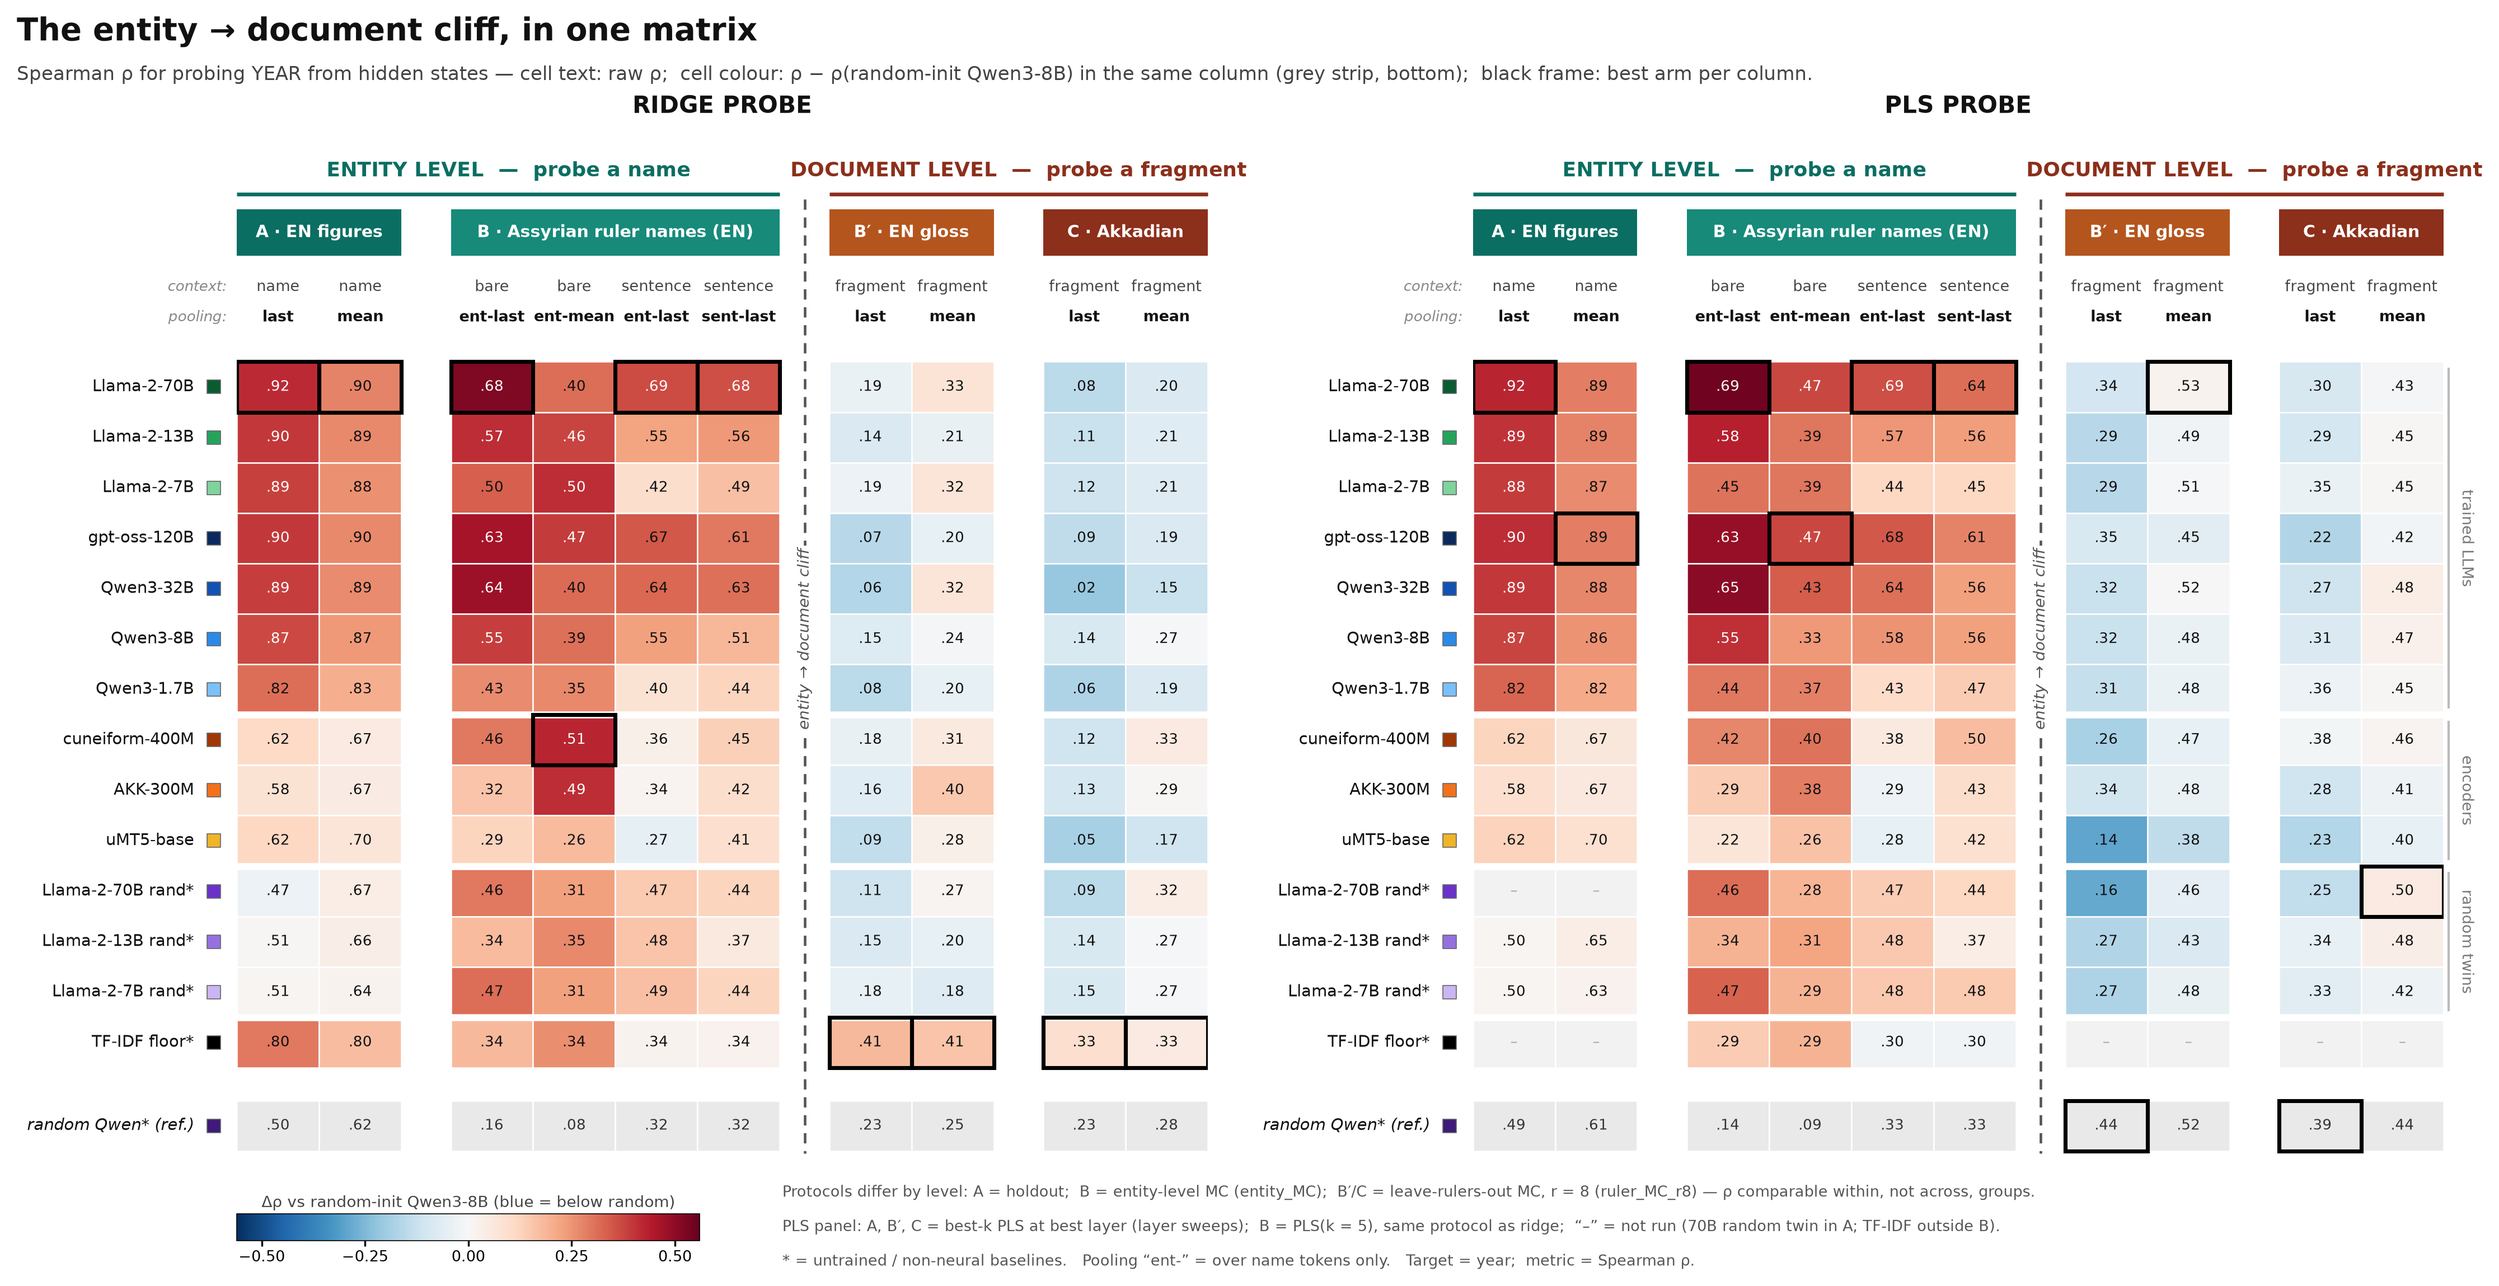
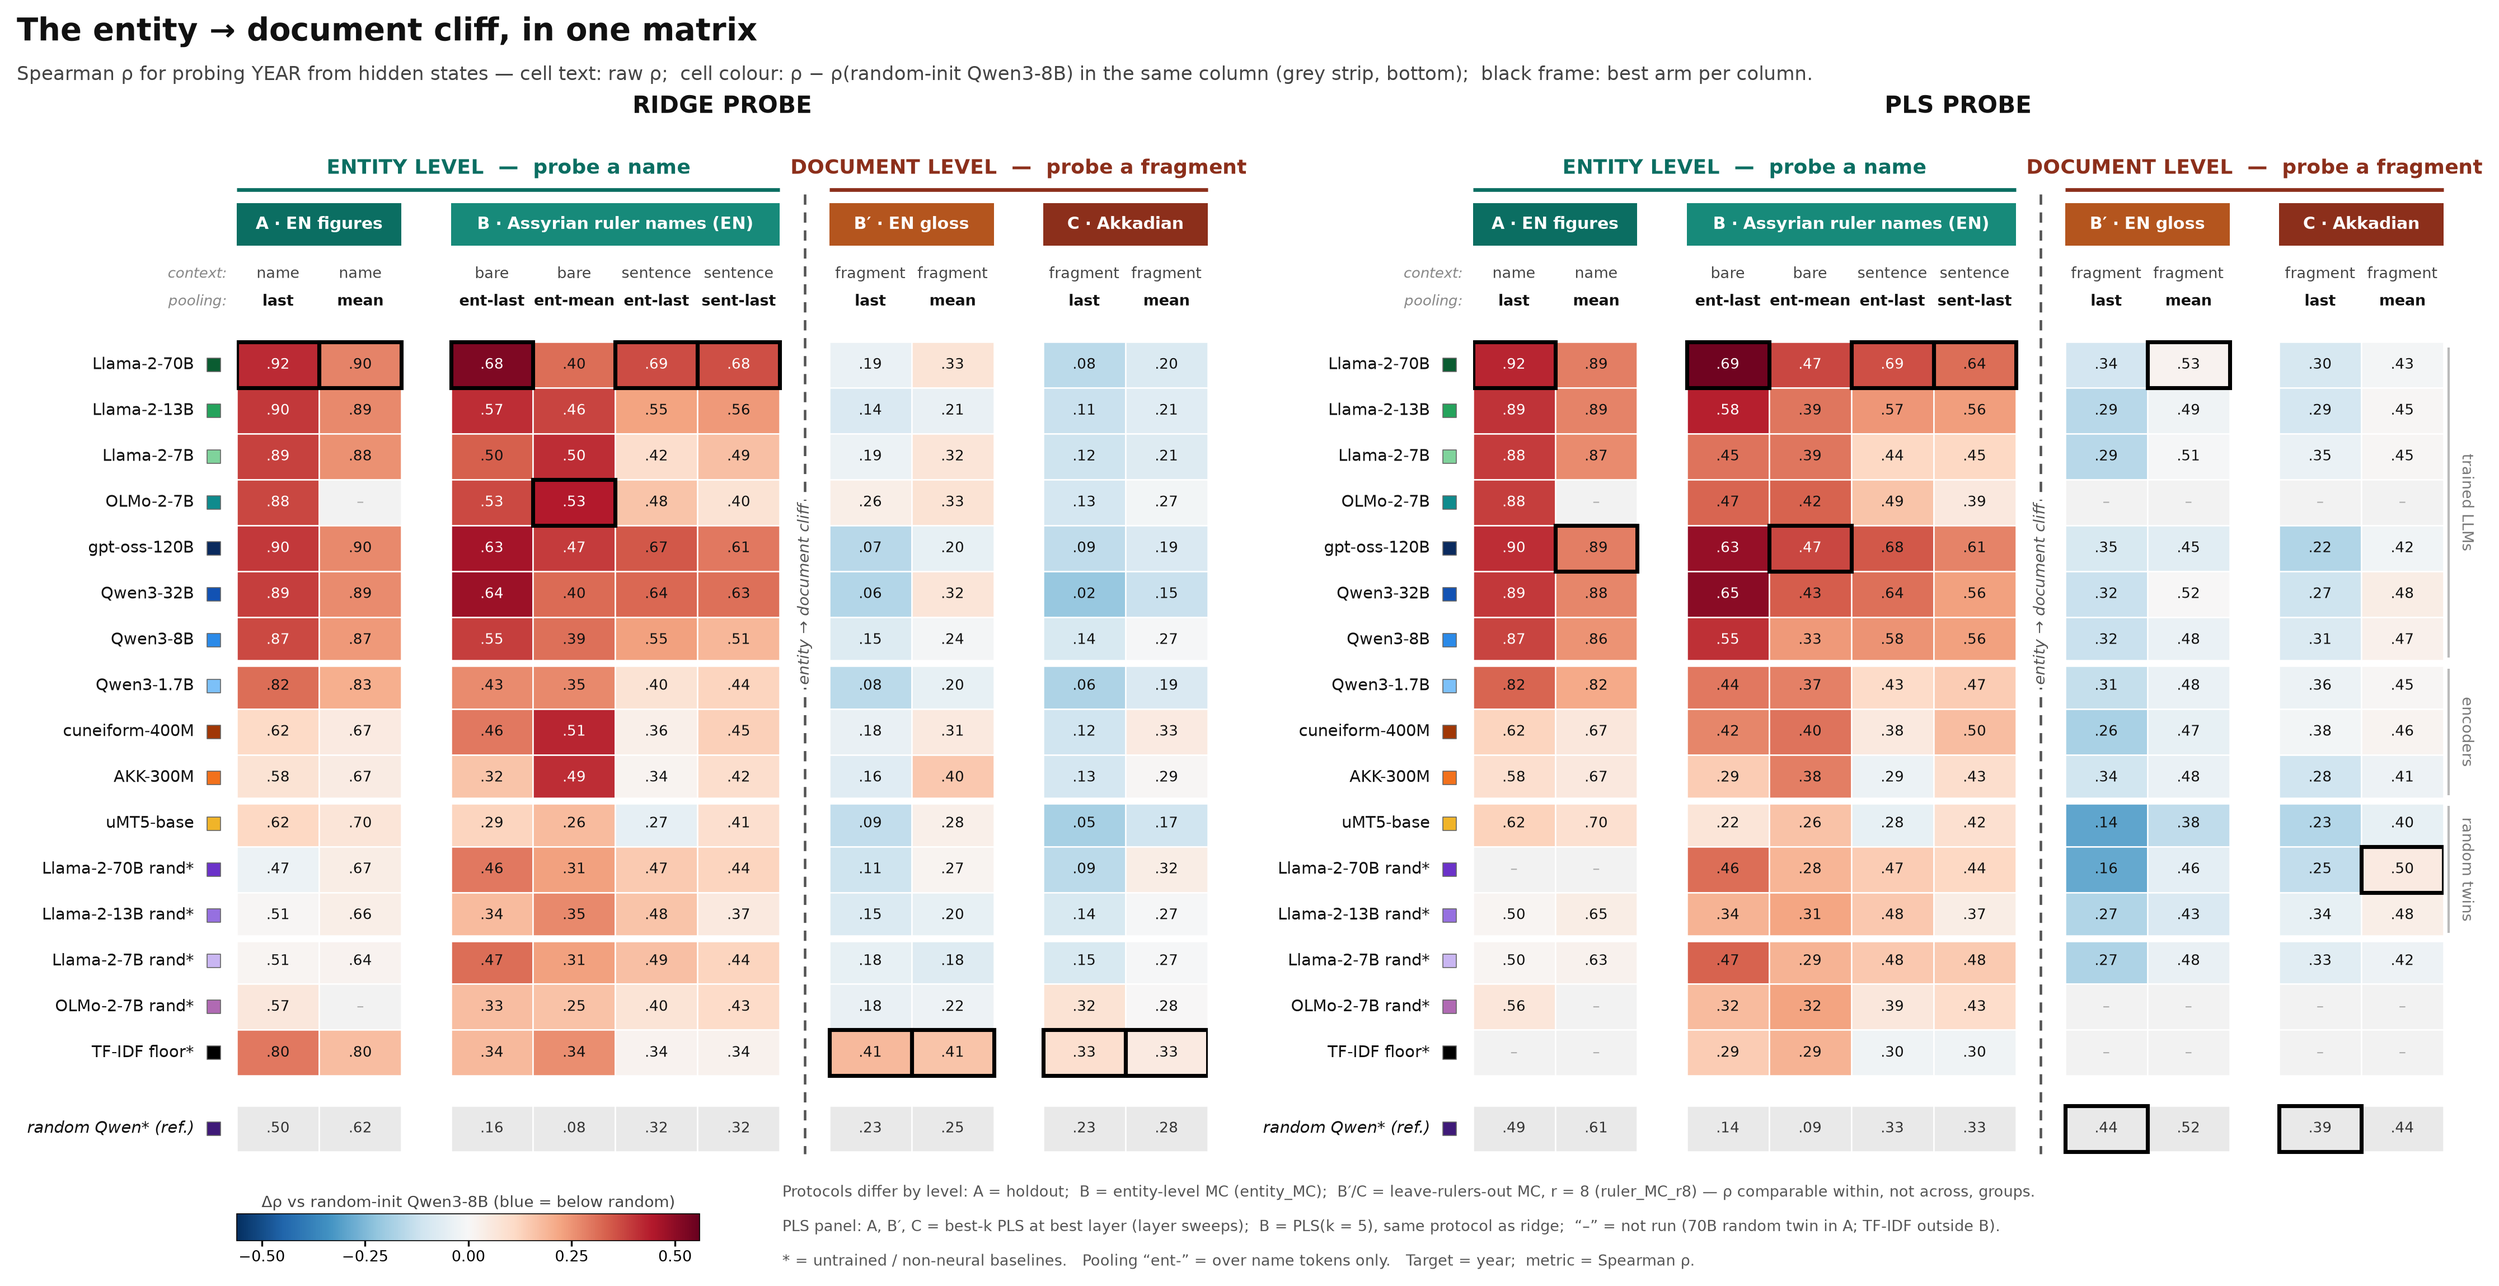
figures: OLMo has all four cells, and the designs stop reading a stale table
O5 landed 24/24 for both OLMo arms, so the fragment cells B' and C now exist and
OLMo appears in every figure. Its four-stage trajectory, each arm against its own
twin, is the same shape as the models it was added to be compared with:

  OLMo-2-7B    A .879 (+.314)   B .488 (+.096)   B' .394 (+.167)   C .297 (+.013)
  Llama-2-7B   A .885 (+.373)   B .447 (-.027)   B' .356 (+.124)   C .224 (-.056)
  Qwen3-8B     A .873 (+.369)   B .580 (+.251)   B' .384 (+.129)   C .286 (+.006)

Large gain over the twin on English entities, nothing left by Akkadian documents.
The collapse is not a property of one model family.

Four hard-coded assumptions had to go, and one of them was actively misleading:

  * every design defaulted to TIDY_all_year_results.csv, the PRE-mc_group build
    from before the protocol fix. Running a design script the obvious way
    rendered StratifiedKFold numbers under a caption claiming GroupKFold, and a
    newly added arm was simply missing. The default is now the mc_group family
    and follows FIG_TAG, so FIG_TAG=__deck reads the deck table by itself.
  * slopegraph and heatmap each keep a private ARMS list; OLMo was in neither.
  * slopegraph required every stage to offer every pooling config. OLMo's cell A
    was extracted at `last` only, so one absent config killed the whole figure.
    It is now best-of-available, and prints which arm was short rather than
    hiding the asymmetry.
[…]

diff --git a/v_1/src/world_models/figures/designs/slopegraph.py b/v_1/src/world_models/figures/designs/slopegraph.py
@@ -29,7 +29,16 @@ from _save import save as _save_fig  # noqa: E402
 # The TIDY table and the output suffix are overridable so the same code renders
 # both read-outs (raw = ridge everywhere; deck = the per-cell probe the thesis
 # reports — PLS at fragment level, PLS-5 for obscure entities, ridge for cell A).
-TIDY_CSV = os.environ.get("TIDY_CSV", "/home/user/HUJI-THESIS--YARIN/v_1/src/world_models/figures/TIDY_all_year_results.csv")
+# The table defaults to the mc_group family and follows FIG_TAG, so `FIG_TAG=__deck`
+# reads the deck table without a second environment variable. It used to default to
+# TIDY_all_year_results.csv, which is the pre-mc_group (StratifiedKFold) build: running
+# a design script the obvious way silently rendered leaky numbers under a caption
+# claiming GroupKFold, and a newly added arm was simply absent. TIDY_CSV still
+# overrides for one-offs.
+_FIGDIR = os.path.dirname(os.path.dirname(os.path.abspath(__file__)))
+TIDY_CSV = os.environ.get(
+    "TIDY_CSV",
+    os.path.join(_FIGDIR, f"TIDY_all_year_results__mc_group{os.environ.get('FIG_TAG', '')}.csv"))
 _TAG = os.environ.get("FIG_TAG", "")
 
 # Captions must not hard-code "ridge": under FIG_TAG=__deck the numbers are the
@@ -71,16 +80,26 @@ TFIDF_CFG = {  # pooling='text' rows per stage
     "B'": [("fragment", "obscure", "tier0", "text")],
     "C": [("fragment", "obscure", "maximal", "text")],
 }
+# Each design keeps its own arm list, so a new arm has to be added in each of them;
+# OLMo goes next to Llama-2-7B, the arm it was added to be compared against.
 ARMS = ["qwen3_1b7", "qwen3_8b", "qwen3_32b", "gpt_oss_120b",
-        "llama2_7b", "llama2_13b", "llama2_70b",
+        "llama2_7b", "llama2_13b", "llama2_70b", "olmo2_7b",
         "thalesian_akk300m", "thalesian_cunei400m", "umt5_base",
-        "llama2_7b_random", "llama2_13b_random", "llama2_70b_random"]
+        "llama2_7b_random", "llama2_13b_random", "llama2_70b_random",
+        "olmo2_7b_random"]
 
 best = defaultdict(dict)   # arm -> stage -> (delta, raw, cfg)
 for s, cfgs in STAGES:
     for m in ARMS:
         cands = [(V[c + (m,)], c) for c in cfgs if c + (m,) in V]
-        assert len(cands) == len(cfgs), (s, m)
+        # Not every arm has every pooling site: OLMo's cell A was extracted at `last`
+        # only, while Llama and Qwen also have `mean`. Requiring the full set dropped
+        # the whole figure rather than the one missing cell, so the rule is now
+        # best-of-available with the shortfall named — an arm choosing from fewer
+        # configs is mildly disadvantaged, and that has to be visible, not silent.
+        assert cands, (s, m)
+        if len(cands) < len(cfgs):
+            print(f"  [partial] {m} stage {s}: {len(cands)}/{len(cfgs)} configs present")
         raw, cfg = max(cands, key=lambda t: t[0])
         ref = V[cfg + ("random",)]
         best[m][s] = (raw - ref, raw, cfg)
@@ -97,8 +116,13 @@ X = np.arange(4.0)
 TEAL, TEAL_D = "#0f766e", "#0b5d57"      # entity regime
 WARM, WARM_D = "#c2601a", "#9a3412"      # fragment regime
 INK, MUT, FAINT = "#1c1c1c", "#6d6d6d", "#9a9a9a"
+# The random twins are drawn in grey here rather than in the deck's control purple,
+# because this figure already spends colour on the four-stage trajectory. A twin
+# missing from this map used to be a KeyError mid-render, so the lookup falls back to
+# a neutral grey and any new control still draws.
 GRAYS = {"llama2_7b_random": "#b0b0b0", "llama2_13b_random": "#909090",
-         "llama2_70b_random": "#6f6f6f"}
+         "llama2_70b_random": "#6f6f6f", "olmo2_7b_random": "#8a8a8a"}
+_GREY_FALLBACK = "#9a9a9a"
 P2M = {"last": "o", "mean": "s", "ent_last": "^", "ent_mean": "D"}
 
 # ------------------------------------------------------------- figure -------
@@ -159,7 +183,8 @@ for m in ARMS + ["tfidf"]:
                 solid_capstyle="round")
         continue
     if isr(m):
-        ax.plot(X, y, color=GRAYS[m], lw=1.3, ls=(0, (5, 3)), zorder=3)
+        ax.plot(X, y, color=GRAYS.get(m, _GREY_FALLBACK), lw=1.3,
+                ls=(0, (5, 3)), zorder=3)
     else:
         ax.plot(X, y, color=COL[m], lw=2.1, alpha=0.95, zorder=4)
     for xi, s in zip(X, S):

diff --git a/v_1/src/world_models/figures/designs/ridgeline.py b/v_1/src/world_models/figures/designs/ridgeline.py
@@ -31,7 +31,16 @@ from _save import save as _save_fig  # noqa: E402
 # The TIDY table and the output suffix are overridable so the same code renders
 # both read-outs (raw = ridge everywhere; deck = the per-cell probe the thesis
 # reports — PLS at fragment level, PLS-5 for obscure entities, ridge for cell A).
-TIDY_CSV = os.environ.get("TIDY_CSV", "/home/user/HUJI-THESIS--YARIN/v_1/src/world_models/figures/TIDY_all_year_results.csv")
+# The table defaults to the mc_group family and follows FIG_TAG, so `FIG_TAG=__deck`
+# reads the deck table without a second environment variable. It used to default to
+# TIDY_all_year_results.csv, which is the pre-mc_group (StratifiedKFold) build: running
+# a design script the obvious way silently rendered leaky numbers under a caption
+# claiming GroupKFold, and a newly added arm was simply absent. TIDY_CSV still
+# overrides for one-offs.
+_FIGDIR = os.path.dirname(os.path.dirname(os.path.abspath(__file__)))
+TIDY_CSV = os.environ.get(
+    "TIDY_CSV",
+    os.path.join(_FIGDIR, f"TIDY_all_year_results__mc_group{os.environ.get('FIG_TAG', '')}.csv"))
 _TAG = os.environ.get("FIG_TAG", "")
 
 # Captions must not hard-code "ridge": under FIG_TAG=__deck the numbers are the
@@ -80,7 +89,10 @@ def pull(level, sal, clean, pool):
 
 DATA = [pull(l, s, c, p) for l, s, c, p, _, _ in CFGS]
 for (arms, tf), cfg in zip(DATA, CFGS):
-    assert len(arms) == 14 and tf is not None, (cfg, len(arms), tf)
+    # was `== 14`, a literal that encoded the arm count at the time of writing; adding
+    # OLMo made every cell 16 and the figure refused to render. What actually matters
+    # is that the cell is populated and has its floor, not that the roster never grows.
+    assert len(arms) >= 10 and tf is not None, (cfg, len(arms), tf)
 
 # ------------------------------------------------------------------------ histogram
 # Each ridge summarises exactly 14 arms. A Gaussian KDE over 14 points invents a smooth

diff --git a/v_1/src/world_models/figures/designs/heatmap.py b/v_1/src/world_models/figures/designs/heatmap.py
@@ -27,7 +27,16 @@ from _save import save as _save_fig  # noqa: E402
 # The TIDY table and the output suffix are overridable so the same code renders
 # both read-outs (raw = ridge everywhere; deck = the per-cell probe the thesis
 # reports — PLS at fragment level, PLS-5 for obscure entities, ridge for cell A).
-TIDY_CSV = os.environ.get("TIDY_CSV", "/home/user/HUJI-THESIS--YARIN/v_1/src/world_models/figures/TIDY_all_year_results.csv")
+# The table defaults to the mc_group family and follows FIG_TAG, so `FIG_TAG=__deck`
+# reads the deck table without a second environment variable. It used to default to
+# TIDY_all_year_results.csv, which is the pre-mc_group (StratifiedKFold) build: running
+# a design script the obvious way silently rendered leaky numbers under a caption
+# claiming GroupKFold, and a newly added arm was simply absent. TIDY_CSV still
+# overrides for one-offs.
+_FIGDIR = os.path.dirname(os.path.dirname(os.path.abspath(__file__)))
+TIDY_CSV = os.environ.get(
+    "TIDY_CSV",
+    os.path.join(_FIGDIR, f"TIDY_all_year_results__mc_group{os.environ.get('FIG_TAG', '')}.csv"))
 _TAG = os.environ.get("FIG_TAG", "")
 
 
@@ -37,10 +46,11 @@ OUT = os.path.dirname(os.path.abspath(__file__)) + f"/heatmap{_TAG}.png"
 # ------------------------------------------------------------------ data ----
 TIDY = list(csv.DictReader(open(TIDY_CSV)))
 
-ARMS = ["llama2_70b", "llama2_13b", "llama2_7b", "gpt_oss_120b",
+ARMS = ["llama2_70b", "llama2_13b", "llama2_7b", "olmo2_7b", "gpt_oss_120b",
         "qwen3_32b", "qwen3_8b", "qwen3_1b7",
         "thalesian_cunei400m", "thalesian_akk300m", "umt5_base",
         "llama2_70b_random", "llama2_13b_random", "llama2_7b_random",
+        "olmo2_7b_random",
         "tfidf"]
 REF = "random"  # random-init Qwen3-8B: separate raw reference strip
 

diff --git a/v_1/src/world_models/figures/designs/anatomy.py b/v_1/src/world_models/figures/designs/anatomy.py
@@ -30,7 +30,16 @@ from _save import save as _save_fig  # noqa: E402
 # The TIDY table and the output suffix are overridable so the same code renders
 # both read-outs (raw = ridge everywhere; deck = the per-cell probe the thesis
 # reports — PLS at fragment level, PLS-5 for obscure entities, ridge for cell A).
-TIDY_CSV = os.environ.get("TIDY_CSV", "/home/user/HUJI-THESIS--YARIN/v_1/src/world_models/figures/TIDY_all_year_results.csv")
+# The table defaults to the mc_group family and follows FIG_TAG, so `FIG_TAG=__deck`
+# reads the deck table without a second environment variable. It used to default to
+# TIDY_all_year_results.csv, which is the pre-mc_group (StratifiedKFold) build: running
+# a design script the obvious way silently rendered leaky numbers under a caption
+# claiming GroupKFold, and a newly added arm was simply absent. TIDY_CSV still
+# overrides for one-offs.
+_FIGDIR = os.path.dirname(os.path.dirname(os.path.abspath(__file__)))
+TIDY_CSV = os.environ.get(
+    "TIDY_CSV",
+    os.path.join(_FIGDIR, f"TIDY_all_year_results__mc_group{os.environ.get('FIG_TAG', '')}.csv"))
 _TAG = os.environ.get("FIG_TAG", "")
 
 # Captions must not hard-code "ridge": under FIG_TAG=__deck the numbers are the

diff --git a/v_1/src/world_models/figures/designs/dumbbell.py b/v_1/src/world_models/figures/designs/dumbbell.py
@@ -28,7 +28,16 @@ from _save import save as _save_fig  # noqa: E402
 # The TIDY table and the output suffix are overridable so the same code renders
 # both read-outs (raw = ridge everywhere; deck = the per-cell probe the thesis
 # reports — PLS at fragment level, PLS-5 for obscure entities, ridge for cell A).
-TIDY_CSV = os.environ.get("TIDY_CSV", "/home/user/HUJI-THESIS--YARIN/v_1/src/world_models/figures/TIDY_all_year_results.csv")
+# The table defaults to the mc_group family and follows FIG_TAG, so `FIG_TAG=__deck`
+# reads the deck table without a second environment variable. It used to default to
+# TIDY_all_year_results.csv, which is the pre-mc_group (StratifiedKFold) build: running
+# a design script the obvious way silently rendered leaky numbers under a caption
+# claiming GroupKFold, and a newly added arm was simply absent. TIDY_CSV still
+# overrides for one-offs.
+_FIGDIR = os.path.dirname(os.path.dirname(os.path.abspath(__file__)))
+TIDY_CSV = os.environ.get(
+    "TIDY_CSV",
+    os.path.join(_FIGDIR, f"TIDY_all_year_results__mc_group{os.environ.get('FIG_TAG', '')}.csv"))
 _TAG = os.environ.get("FIG_TAG", "")
 
 # Captions must not hard-code "ridge": under FIG_TAG=__deck the numbers are the

diff --git a/v_1/src/world_models/figures/designs/geometry.py b/v_1/src/world_models/figures/designs/geometry.py
@@ -20,7 +20,16 @@ import os
 # The TIDY table and the output suffix are overridable so the same code renders
 # both read-outs (raw = ridge everywhere; deck = the per-cell probe the thesis
 # reports — PLS at fragment level, PLS-5 for obscure entities, ridge for cell A).
-TIDY_CSV = os.environ.get("TIDY_CSV", "/home/user/HUJI-THESIS--YARIN/v_1/src/world_models/figures/TIDY_all_year_results.csv")
+# The table defaults to the mc_group family and follows FIG_TAG, so `FIG_TAG=__deck`
+# reads the deck table without a second environment variable. It used to default to
+# TIDY_all_year_results.csv, which is the pre-mc_group (StratifiedKFold) build: running
+# a design script the obvious way silently rendered leaky numbers under a caption
+# claiming GroupKFold, and a newly added arm was simply absent. TIDY_CSV still
+# overrides for one-offs.
+_FIGDIR = os.path.dirname(os.path.dirname(os.path.abspath(__file__)))
+TIDY_CSV = os.environ.get(
+    "TIDY_CSV",
+    os.path.join(_FIGDIR, f"TIDY_all_year_results__mc_group{os.environ.get('FIG_TAG', '')}.csv"))
 _TAG = os.environ.get("FIG_TAG", "")
 
 # Captions must not hard-code "ridge": under FIG_TAG=__deck the numbers are the

diff --git a/v_1/src/world_models/wm_lib/registry.py b/v_1/src/world_models/wm_lib/registry.py
@@ -83,9 +83,13 @@ MODELS = {
     # published. OLMo 2 ships open weights AND the open olmo-mix/Dolma corpus, which
     # is what makes the frequency dose-response experiment possible at all
     # (v_1/src/olmo_frequency/). Needs transformers >= 4.47.
-    "olmo2_7b":        _m("allenai/OLMo-2-1124-7B", ARCH_CAUSAL),
+    # sites: both, not the causal default of `last` alone. Llama and Qwen have cell-A
+    # `mean` from a second extraction pass, and an arm added for comparability that
+    # can only offer half the poolings is choosing its best from a smaller menu.
+    "olmo2_7b":        _m("allenai/OLMo-2-1124-7B", ARCH_CAUSAL,
+                          sites=["last", "mean"]),
     "olmo2_7b_random": _m("allenai/OLMo-2-1124-7B", ARCH_CAUSAL, random=True,
-                          random_of="olmo2_7b"),
+                          random_of="olmo2_7b", sites=["last", "mean"]),
     # ---- debug arm (not in the ladder; excluded from aggregation tables) ----
     "pythia_70m_test": _m("EleutherAI/pythia-70m", ARCH_CAUSAL),
     # 70B random is materialized once by build_random_llama.py (W0) because
